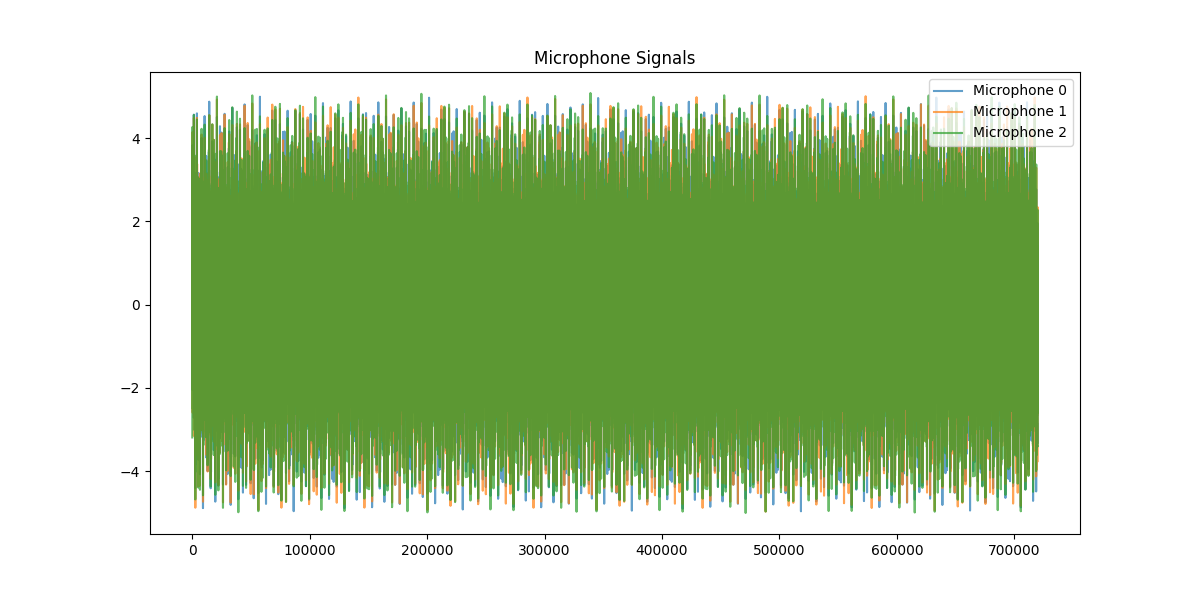
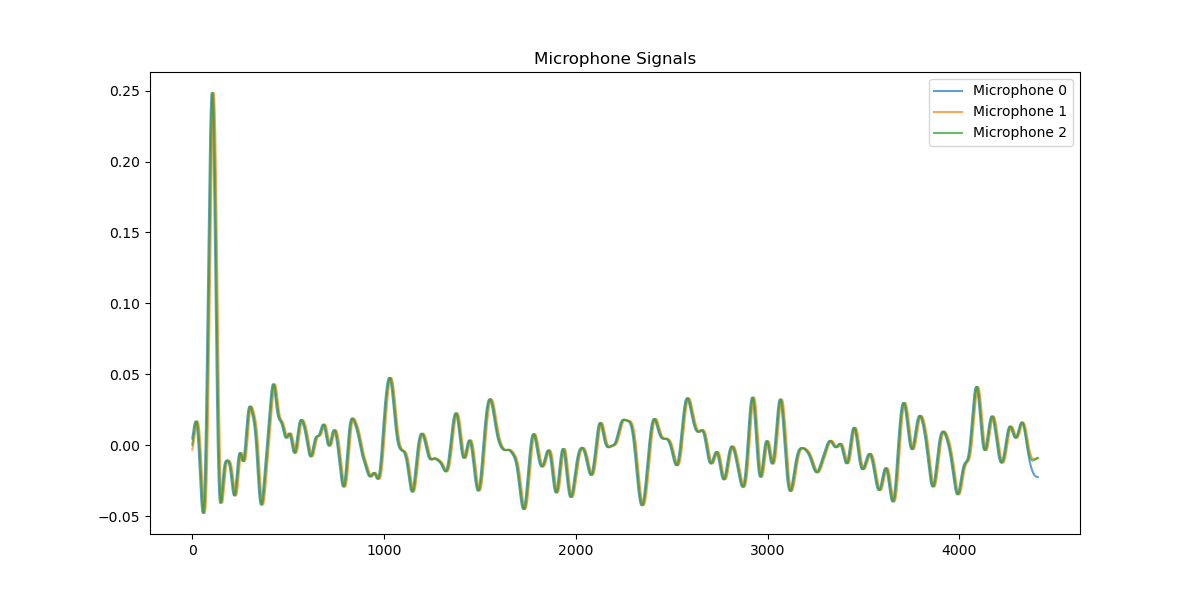
test changed to another test signal simulation

diff --git a/test.py b/test.py
@@ -1,4 +1,4 @@
-from pc_code.sound_localization.gccPhat import test_gcc_phat, PHAT_GCC_TDOA
+from pc_code.sound_localization.gccPhat import test_gcc_phat, PHAT_GCC_TDOA, create_delayed_signals
 from pc_code.sound_localization.gccPhatByMatlab import gccphat_matlab
 #from pc_code.transcriber import transcriber
 from pc_code.sound_localization.Triangulate import test123, triangulate_from_sound, find_sound_origin, microphone_placement
@@ -10,6 +10,8 @@ from consts import SAMPLE_RATE
 
 
 
+"""
+sample_rate = 144000
 
 I2S0 = np.array([])
 I2S1 = np.array([])
@@ -54,7 +56,27 @@ mic_3 = mic_3 + np.random.normal(0, 0.1, t.shape)
 mic_1 = mic_1 + 0.3 * np.sin(2 * np.pi * 2443 * t + 0.5) + 0.3 * np.sin(2 * np.pi * 233 * t + 0.2) + 0.2 * np.sin(2 * np.pi * 6543 * t + 1) + 0.1 * np.sin(2 * np.pi * 33 * t) + 0.05 * np.sin(2 * np.pi * 5678 * t) + 0.025 * np.sin(2 * np.pi * 18000 * t)
 mic_2 = mic_2 + 0.3 * np.sin(2 * np.pi * 2443 * t + 0.5) + 0.3 * np.sin(2 * np.pi * 324 * t + 0.2) + 0.2 * np.sin(2 * np.pi * 4345 * t + 1) + 0.1 * np.sin(2 * np.pi * 432 * t) + 0.05 * np.sin(2 * np.pi * 4567 * t) + 0.025 * np.sin(2 * np.pi * 54433 * t)
 mic_3 = mic_3 + 0.3 * np.sin(2 * np.pi * 432 * t + 0.5) + 0.3 * np.sin(2 * np.pi * 2334 * t + 0.2) + 0.2 * np.sin(2 * np.pi * 234 * t + 1) + 0.1 * np.sin(2 * np.pi * 6776 * t) + 0.05 * np.sin(2 * np.pi * 76 * t) + 0.025 * np.sin(2 * np.pi * 6566 * t)
+"""
 
+sampling_rate = 44100
+duration = 0.1  # seconds
+signal_length = int(sampling_rate * duration)
+
+# Create a more realistic signal (chirp + noise)
+t = np.linspace(0, duration, signal_length)
+base_signal = np.sin(2 * np.pi * 1000 * t) * np.exp(-100 * t)  # Decaying chirp
+base_signal += 0.1 * np.random.randn(signal_length)  # Add noise
+
+# Define true delays in samples (simulating sound arriving at different times)
+# Let's say sound arrives at: mic0 at 100 samples, mic1 at 110 samples, mic2 at 105 samples
+true_delays = np.array([100, 110, 105])  # in samples
+
+# Create signals with these delays
+signals = create_delayed_signals(base_signal, true_delays, signal_length)
+
+mic_1 = signals[0]
+mic_2 = signals[1]
+mic_3 = signals[2]
 
 print("Mic data lengths:", len(mic_1), len(mic_2), len(mic_3))
 
